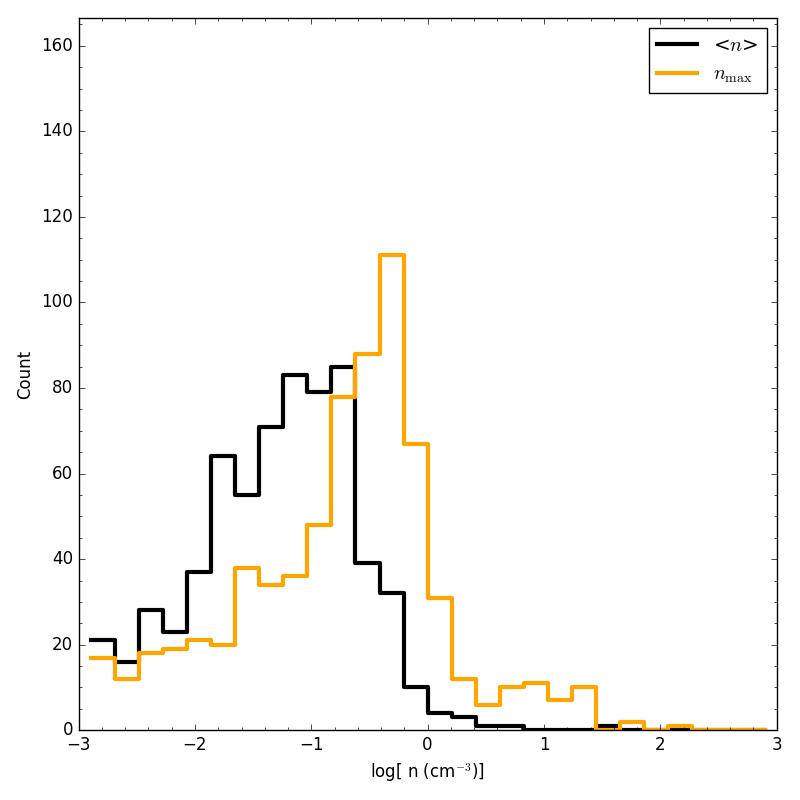
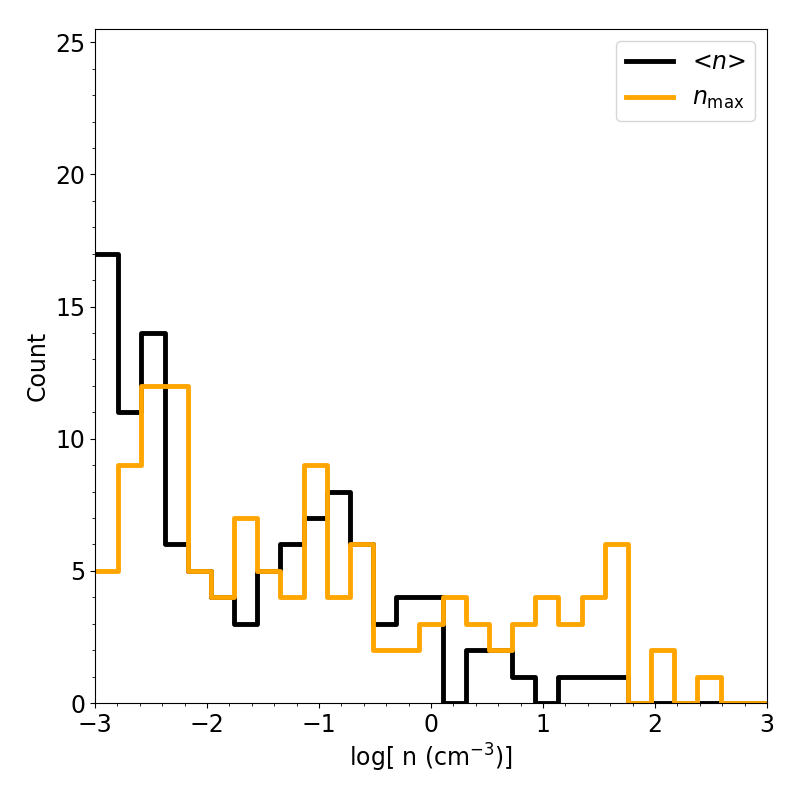
Update on Overleaf.

Changed region(s): [[0.0, 0.0, 1.0, 0.9688], [0.4688, 0.3125, 0.5312, 0.5625]]

diff --git a/main.tex b/main.tex
@@ -16,7 +16,7 @@
 
 \begin{document}
 
-\title{Simulating Dwarf Galaxy Evolution with Individual Star Feedback and Chemical Evolution I: Methods and Test Case}
+\title{REDO Simulating Dwarf Galaxy Evolution with Individual Star Feedback and Chemical Evolution I: Methods and Test Case}
 %Unstable Star Formation for the Lowest Mass Dwarf Galaxies
 \author{Andrew Emerick}
 \affiliation{Department of Astronomy, Columbia University, New York, NY, 10027, USA}
@@ -51,7 +51,7 @@ Increasing resolution, while more expensive, generally makes it easier to model 
 
 Our work builds upon our current understanding of galactic chemodynamics while making three notable advancements: 1) direct star-by-star modeling, 2) stellar wind feedback, and 3) using an adaptive ray tracing method to follow stellar ionizing radiation. Using star-by-star modeling, we are able to capture in more detail the stellar yields from individual stars released over their lifetime. In addition to better capturing how individual metal species enrich the ISM, this allows us to chemically tag individual stars. This opens an exciting new channel for testing models of galaxy evolution by enabling us to leverage current and ongoing observations probing the detailed chemical abundances of stars in the Milky Way and Local Group. \textbf{(citations to obs campaigns - GAIA, RAVE, APOGEE, etc.).}
 
-This paper is the first in a series of papers examining in detail the role that the individual components of multi-channel stellar feedback play in galaxy dynamical and chemical evolution. In this paper we introduce a new method of modeling for feedback physics and galactic chemical enrichment in the cosmological, hydrodynamics code \texttt{Enzo}. For the first time in galaxy-scale simulations, we model star formation down to particles representing individual stars, while simultaneously capturing stellar feedback through stellar winds, core collapse and Type 1a supernovae, photoelectric heating, and ionizing radiation through ray-tracing radiative transfer. In addition, we couple to a self-consistent set of stellar yields tables from the to track stellar yields from massive star stellar winds, AGB star winds, and supernovae. We describe each mode of our multi-channel feedback implementation in detail below, and briefly discuss their implementation in a set of isolated dwarf galaxy simulations.
+This paper is the first in a series of papers examining in detail the role that the individual components of multi-channel stellar feedback play in galaxy dynamical and chemical evolution. In this paper we introduce a new method of modeling for feedback physics and galactic chemical enrichment in the cosmological, hydrodynamics code \texttt{Enzo}. For the first time in galaxy-scale simulations, we model star formation down to particles representing individual stars, while simultaneously capturing stellar feedback through stellar winds, core collapse and Type 1a supernovae, photoelectric heating, and ionizing radiation through ray-tracing radiative transfer. In addition, we couple to a self-consistent set of stellar yields tables from the to track stellar yields from massive star stellar winds, AGB star winds, and supernovae. We describe each mode of our multi-channel feedback implementation in detail below, and briefly discuss their implementation in an isolated dwarf galaxy simulation.
 
 Readers who may want to only briefly skim (or skip) over the details of our included physics are advised to just read the beginning of Section~\ref{sec:methods}, which contains a complete -- yet brief -- summary of the included physics.
 
@@ -205,54 +205,49 @@ In addition to the LW radiation from the UV background, we account for localized
 
 \section{Galaxy Initial Conditions}
 \label{sec:IC}
-The dwarf galaxy presented in this work a comparison simulation to the ``compact'' dwarf galaxy simulated in \cite{Hu2017}. There are some minor qualitative differences due to differences in initialization scheme. The gaseous disk of our galaxy is initialized as an exponential disk as used in \cite{Tonnesen2009} and \cite{Salem2015}. This is given as
+The galaxy presented in this work is constructed to be similar to the observed properties of the Local Group dwarf galaxy Leo P \citep{Giovanelli2013,McQuinn2013,McQuinn2015a,McQuinn2015}, but is not intended to be a matched model to this galaxy. Leo P is gas rich ($M_{\rm gas} > M_{*}$) and low metallicity, with $M_{\rm HI} = 8.1\times 10^{5}$~M$_{\odot}$ and $M_{*} = 5.6^{+0.4}_{-1.9} \times 10^{5}$~M$_{\odot}$ \citep{McQuinn2015a} extending to a radius $r_{\rm HI} = 500$~pc, and with $12 + \rm{log(O/H)} = 7.17 \pm 0.04$ \citep{Skillman2013}, or $Z \sim 5.4\times10^{-4}$ adopting $Z_{\odot} = 0.018$ from \cite{Asplund2009}. Our dwarf galaxy is constructed without an initial background stellar population, with a total gas mass of $1.8 \times 10^{6}$~M$_{\odot}$ (or $M_{\rm HI} = 1.35 \times 10^{6}$~M$_{\odot}$) and $Z = 4.3\times 10^{-4}$, comparable to the average $z = 0$ metallicity from the stellar models computed in \citep{McQuinn2015}.
+
+The galaxy initially consists of a smooth, exponential gas disk in hydrostatic equillibrium with a static, background dark matter potential. The gas profile follows \cite{Tonnesen2009} and \cite{Salem2015}, or
 \begin{equation}
 \rho_{\rm gas} (R,z) = \frac{M_{\rm gas}}{2\pi a^2_{\rm gas}b_{\rm gas}} 0.5^2{\rm sech}\left(\frac{R}{a_{\rm gas}}\right){\rm sech}\left(\frac{z}{b_{\rm gas}}\right)
 \end{equation}
-where $a_{\rm gas}$ and $b_{\rm gas}$ are the radial and vertical gas disk scale heights, and $M_{\rm gas}$ is approximately 70\% of the total gas mass. We set $a_{\rm gas} = 1$~kpc, $b_{\rm gas} = 0.35$~kpc, and a total gas mass of $M_{\rm T,gas} = 4.0\times 10^7$~M$_{\odot}$. We include a static \citet{MiyamotoNagai1975} stellar background potential with total mass $M_{*} = 2\times 10^7 \rm{M_{\odot}}$ and the same scale height as the gas disk. This potential is given as
-\begin{equation}
-\Phi_* (R,z) = GM_{*}\left[R^2 + \left(a_* + \sqrt{z^2 + b_*^2}\right)^2\right]^{-1/2}.
-\end{equation}
-Our dwarf galaxy is embedded in a static, background, \citet{Burkert1995} dark matter potential with $M_{\rm vir} = 10^{10} \rm{M_{\odot}}$, $R_{\rm vir}~=~44$~kpc and r$_{\rm s} = 4.4$~kpc. This gives a maximum circular velocity $V_{\rm max} = 36.1$~km~s$^{-1}$ at $R_{\rm vmax}~=~1.43$~kpc. We note \cite{Hu2017} uses a NFW profile with the same concentration, giving $V_{\rm max} = 37.6$~km~s$^{-1}$ at $R_{\rm vmax}~=~9.5$~kpc. This is the most significant difference between our two initial conditions. The temperature of the gas disk is set by enforcing initial hydrostatic equilibrium with both the background stellar and dark matter potentials. The initial gas metallicity is set to 0.1 Z$_{\odot}$.
+where $a_{\rm gas}$ and $b_{\rm gas}$ are the radial and vertical gas disk scale heights, and $M_{\rm gas}$ is approximately 70\% of the total gas mass. We set $a_{\rm gas} = 250$~pc, $b_{\rm gas} = 100$~pc, and a total gas mass of $M_{\rm T,gas} = 2.0\times 10^6$~M$_{\odot}$. We adopt a Burkert \citet{Burkert1995} dark matter potential with $M_{\rm vir} = 3.5^{8} \rm{M_{\odot}}$, $R_{\rm vir}~=~14.3$~kpc and r$_{\rm s} = 370$~pc. This gives a maximum circular velocity $V_{\rm max} = 17.4$~km~s$^{-1}$ at $R_{\rm vmax}~=~1.2$~kpc. These parameters were adopted specifically to match the observed dynamical mass of Leo P interior to 500 pc, or $M_{\rm dyn} (r < 500~\rm{pc}) = 2.7\times 10^{7}$ M$_{\odot}$, and represent virial properties near the minimum halo mass expected for galaxies of this size \citep{Ferrero2012} (need more cite). We will explore the effect of adopting different dark matter potentials within the large range of possible profiles in a future work.
 
-Following the initialization procedure of \cite{Hu2017}, we use artificial supernova driving to disturb the initially smooth gas profile. This generates realistic ISM turbulence and density structures and prevents the otherwise uniform collapse of the gas to a thin disk that rapidly undergoes a large burst of star formation. The supernova driving occurs at random positions throughout the gas disk in regular intervals of 0.5 Myr until 10 Myr after the first star forms. This SNe rate corresponds to the equilibrium SFR of this galaxy in \cite{Hu2017}, or $1.2\times 10^{-3}$~M$_{\odot}$~yr$^{-1}$. To maintain effective supernova driving, these explosions are uncorrelated with the local gas density \citep{Gatto2017}. The yields from these artificial supernovae are set to not affect the chemical evolution of the galaxy, but to maintain constant local gas abundances.
-
-We simulate two realizations of the same dwarf galaxy in order to approximately test the effects of using radiative transfer to track stellar ionizing radiation as compared to a more approximate model. The first, our fiducial model, includes all physics as discussed above. The second uses all physics, but approximates the downside of approximate radiative feedback models by limiting ionizing radiation to local regions around the star particle, deleting photons that travel more than 50 pc. This is a very conservative mimicry of a Stromgren type approximation for photoionization feedback \citep[e.g.][]{Hopkins2012,Hu2017}, which is often used instead of full radiative transfer. Briefly, this generally photoionizes all gas within the Stromgren radius of a given star, expanding the region to account for overlapping HII regions by making estimates of the local density dependent recombination rate to determine if the region should be expanded. This, along with lack of angular information, can mass-bias the ionizing radiation, preferentially depositing most of the ionizing flux in local denser regions even though this ionizing radiation may be able to travel farther. Allowing photons to propagate normally within 50 pc effectively assumes this approximation is entirely consistent with radiative transfer within 50 pc, and asks the question as to whether or not longer distance photon propagation is important for galaxy evolution. We refer to these two galaxies as our ``fiducial'' and ``shortrad'' models for the remainder of this work.
-
-% move leo P stuff to another paper: Each of the dwarf galaxies presented in this paper are modeled after the current observed properties of the Local Group ultrafaint dwarf galaxy Leo P. Leo P is remarkable for its large gas to stellar ratio, Mgas = XXX Mstar = XXX, and presence of ongoing star formation -- SFR = XX. HI observations of Leo P constrain its dynamical mass interior to XX pc to be XX Msun. Each of our dwarf galaxies are embedded in a fixed, constant Burkert dark matter profile, of which we adopt a scale radius of 395 pc. This implies a total virial mass of XXX Msun and virial radius of XXX kpc, using the definition of Bryan et. al. 199x. 
-% The galaxy temperature is set such that the gas is in hydrostatic equilibrium with the background dark matter halo, ignoring the self-gravity of the gas. We adopt the initial gas phase metal fraction of  metal fraction of $Z = 4.3\times10^{-4}$, which is within the span of SFH modeled metallicities of Leo P presented in Fig. 8 of \cite{McQuinn2015a}; we note this is slightly lower than the observed current metallicity of Leo P, with $12 + \rm{log(O/H)} = 7.17 \pm 0.04$, or $Z \sim 5.4\times10^{-4}$ adopting $Z_{\odot} = 0.018$ from \cite{Asplund2009}. 
+Following the initialization procedure of \cite{Hu2017}, we use artificial supernova driving to generate realistic densities and turbulent properties in the galaxy ISM. This additionally prevents an otherwise uniform collapse of the gas disk. The supernovae explode at a fixed rate of $0.4$~Myr$^{-1}$, corresponding to the SFR obtained given the central HI surface density and the relation presented in \citep{Roychowdhury2009}. We stop the artificial driving 25~Myr after the first star particle forms. These artificial supernova do not drive chemical evolution of the galaxy, containing metal yields corresponding to the mean ISM abundances. 
 
 \section{Results}
 \label{sec:results}
 
-The shortrad galaxy agrees fairly well with the results found in both \citep{Hu2016} and \citep{Hu2017}, in terms of both morphological structure and star formation properties. This is in contrast to the results found in \citep{Forbes2016}, for reasons outlined in the discussion of \citet{Hu2017}. However, our full physics simulation, while similar to \citep{Hu2017}, shows significant differences. This is discussed in detail below.
+%\begin{figure*}
+%\includegraphics[width=0.23\linewidth]
 
 
-\begin{figure*}
-\includegraphics[width=0.23\linewidth]{panel/HI_sndriving.png}
-\includegraphics[width=0.23\linewidth]{panel/H2_sndriving.png}
-\includegraphics[width=0.23\linewidth]{panel/G_o_sndriving.png}
-\includegraphics[width=0.23\linewidth]{panel/temperature_sndriving.png}\\
-\vspace{0.1cm}
-\includegraphics[width=0.23\linewidth]{panel/HI_shortrad.png}
-\includegraphics[width=0.23\linewidth]{panel/H2_shortrad.png}
-\includegraphics[width=0.23\linewidth]{panel/G_o_shortrad.png}
-\includegraphics[width=0.23\linewidth]{panel/temperature_shortrad.png}
-\caption{Projections of our fiducial galaxy (top) and shortrad galaxy (bottom) at the end of the simulation time. The left two panels are integrated projections through the full disk, giving HI and H$_2$ column density. On the right, we show thin, face-on projections of G$_{o}$ and temperature in the central 50 pc of the disk. We note both the strange dark region in the top $G_o$ plot and the white boxes at the edges of the thin projections are artifacts of the visualization process, and are not present in the simulation.\textbf{yes plot fonts and label sizes need fixing - AE}}
-\label{fig:panel}
-\end{figure*}
+
+%\begin{figure*}
+%\includegraphics[width=0.23\linewidth]{panel/HI_sndriving.png}
+%\includegraphics[width=0.23\linewidth]{panel/H2_sndriving.png}
+%\includegraphics[width=0.23\linewidth]{panel/G_o_sndriving.png}
+%\includegraphics[width=0.23\linewidth]{panel/temperature_sndriving.png}\\
+%\vspace{0.1cm}
+%\includegraphics[width=0.23\linewidth]{panel/HI_shortrad.png}
+%\includegraphics[width=0.23\linewidth]{panel/H2_shortrad.png}
+%\includegraphics[width=0.23\linewidth]{panel/G_o_shortrad.png}
+%\includegraphics[width=0.23\linewidth]{panel/temperature_shortrad.png}
+%\caption{Projections of our fiducial galaxy (top) and shortrad galaxy (bottom) at the end of the simulation time. The left two panels are integrated projections through the full disk, giving HI and H$_2$ column density. On the right, we show thin, face-on projections of G$_{o}$ and temperature in the central 50 pc of the disk. We note both the strange dark region in the top $G_o$ plot and the white boxes at the edges of the thin projections are artifacts of the visualization process, and are not present in the simulation.\textbf{yes plot fonts and label sizes need fixing - AE}}
+%\label{fig:panel}
+%\end{figure*}
 
 \subsection{Morphological Structure}
 \label{sec:structure}
 We show edge-on (left) and face-on (right) projections of our fiducial galaxy (top) and shortrad (bottom) at the end of the simulation time in Figure~\ref{fig:panel}. The left two panels are number density weighted projections through the full disk, giving HI and H$_2$ column density. The right hand panels show face-on projections through thin (50 pc) slabs at the center of the galaxy for the interstellar radiation field normalized to the MW value in the solar neighborhood, or $G_o$, and gas temperature. In general, the shortrad simulation is visually consistent with that found in \citep{Hu2016,Hu2017}, exhibiting a thick, puffy disk with a relatively smooth HI column and an H$_2$ distribution that is more confined to the plane of the galaxy and is roughly uniformly distributed. Looking at the fiducial simulation, it is clear that the ray-tracing radiative transfer produces a significant change in the galactic structure. Both the HI and H$_2$ are significantly more disturbed, with notable gaps in the HI column caused by regions carved out by the ionizing radiation, and with significantly less uniform H$_2$ column, from molecular hydrogen destroyed through ionization heating. 
 
-\begin{figure}
-\includegraphics[width=0.9\linewidth]{panel/sndriving_particles}\\
-\vspace{0.1cm}
-\includegraphics[width=0.9\linewidth]{panel/shortrad_particles}
-\caption{Face on, density weighted projections of gas number density for both galaxies. Each of the black points represents a single particle (star) in the simulation, and can be a living star, a white dwarf, a massless tracer originating from a Type Ia explosion, or a SNII remnant. The population is dominated by low mass stars; only a fraction of these particles have active feedback (winds, radiation, supernovae) at any one moment. \textbf{yes plot fonts and label sizes need fixing - AE}}
-\label{fig:number density}
-\end{figure}
+%\begin{figure}
+%\includegraphics[width=0.9\linewidth]{panel/sndriving_particles}\\
+%\vspace{0.1cm}
+%\includegraphics[width=0.9\linewidth]{panel/shortrad_particles}
+%\caption{Face on, density weighted projections of gas number density for both galaxies. Each of the black points represents a single particle (star) in the simulation, and can be a living star, a white dwarf, a massless tracer originating from a Type Ia explosion, or a SNII remnant. The population is dominated by low mass stars; only a fraction of these particles have active feedback (winds, radiation, supernovae) at any one moment. \textbf{yes plot fonts and label sizes need fixing - AE}}
+%\label{fig:number density}
+%\end{figure}
 
 The differences are further emphasized in the temperature projections, where a visually more significant fraction of the gas in the fiducial simulations sits at temperatures near 10$^4$~K, and much less sits at very low ($\sim$ 10 K) temperatures. The differences between gas phase in these simulations is discussed in Section~\ref{sec:phase}. The ISRF of both galaxies is quite similar, though since the ISRF in our model is generated by massive stars alone, it reflects the SFR over the previous 10 - 40 Myr, which is in fact similar in both galaxies (see Section~\ref{sec:sfr}).
 
@@ -261,48 +256,71 @@ Finally, in Figure~\ref{fig:number density} we present face-on projections of ga
 \subsection{SFR and Mass Evolution}
 \label{sec:sfr}
 
-\begin{figure*}
-\includegraphics[width=0.32\linewidth]{sfr_comparison}
-\includegraphics[width=0.32\linewidth]{stars_mass_comparison}
-\includegraphics[width=0.32\linewidth]{HI_mass_comparison}
-\caption{The 10 Myr averaged SFR (left), stellar mass (middle), and disk HI mass (right) for each galaxy. \textbf{need to increase font sizes and y axis lim}}
-\label{fig:SFR}
-\end{figure*}
+%\begin{figure*}
+%\includegraphics[width=0.32\linewidth]{sfr_comparison}
+%\includegraphics[width=0.32\linewidth]{stars_mass_comparison}
+%\includegraphics[width=0.32\linewidth]{HI_mass_comparison}
+%\caption{The 10 Myr averaged SFR (left), stellar mass (middle), and disk HI mass (right) for each galaxy. \textbf{need to increase font sizes and y axis lim}}
+%\label{fig:SFR}
+%\end{figure*}
 
 In Figure ~\ref{fig:SFR} we compare the star formation rates of both simulations (left), along with the stellar mass evolution (middle), and HI mass evolution (right). The peak and average SFRs for each galaxy over the 270~Myr simulation time are comparable, with a peak at roughly $0.04$~M$_{\odot}$~yr$^{-1}$ and an average of about $1.1~\times~10^{-3}$~M$_{\odot}$~yr$^{-1}$ in each simulation. However, the SFR evolution is qualitatively different, with the fiducial run exhibiting a $\sim$80~Myr period of minimal, patchy star formation between 125~Myr and 200~Myr ($<\rm{SFR}>~=~2.2\times~10^{-5}~$M$_{\odot}$~yr$^{-1}$). Although there is a lull in star formation during this time in the shortrad case, star formation is continuous. This difference is due solely to the long-range effects of stellar ionizing radiation, though we cannot also rule out the possibility that it also makes SN feedback more effective. It is apparent in this simulation that stellar radiation feedback is effective at suppressing star formation galaxy wide, not just locally.
 
-\begin{figure}
-\includegraphics[width=0.9\linewidth]{HI_surface_density}
-\caption{\textbf{Coloring / style needs to change} Time averaged HI surface density profiles (dashed line) for both galaxies over the simulation time. The hatched regions show one standard deviation from the mean in each radial bin. Although there is noticeable variance in the HI profile in both galaxies, it is significantly greater for the full physics simulation. Truncating the ionizing photons to local regions alone results in a steadier and on average greater amount of HI at all but the very outer edge of the galaxy.}
-\label{fig:HI profile evolution}
-\end{figure}
+%\begin{figure}
+%\includegraphics[width=0.9\linewidth]{HI_surface_density}
+%\caption{\textbf{Coloring / style needs to change} Time averaged HI surface density profiles (dashed line) for both galaxies over the simulation time. The hatched regions show one standard deviation from the mean in each radial bin. Although there is noticeable variance in the HI profile in both galaxies, it is significantly greater for the full physics simulation. Truncating the ionizing photons to local regions alone results in a steadier and on average greater amount of HI at all but the very outer edge of the galaxy.}
+%\label{fig:HI profile evolution}
+%\end{figure}
 
 The long-range effects of the ionization are clear in the HI evolution of these galaxies (middle). The presence of stellar ionizing radiation throughout the galaxy decreases the amount of HI gas present in the disk by a factor of $\sim$4, by the end of the simulation time. Figure~\ref{fig:HI profile evolution} shows the average HI surface density profile of each galaxy over the course of the simulation time, with the filled regions indicating one standard deviation from the mean. These differences in evolution lead to differences in metal production and distribution in these two galaxies, discussed further in \ref{sec:chemical evolution}.
 
+\subsection{Outflow Properties}
+\label{sec:outflows}
+
+Show mass loading factors as a function of time here at all radii.
+
+\begin{figure}
+\centering
+\includegraphics[width=0.95\linewidth]{outflow_velocity_distribution}
+\caption{The time averaged radial velocity distribution of outflowing material external to the disk and within the virial radius of our dwarf galaxy. The outflowing material is multiphase, broken into WNM, WIM, and HIM. See XXX for definitions of these regimes. We note that WNM is often labeled simply as ``cold'', or gas below $T = 10^{4}$K. There is little to no outflowing mass in the CNM or molecular phases.}
+\label{fig:outflow_velocity}
+\end{figure}
+
+Detailed outflow properties, beyond outflow rates and mass loading factors, are important discriminators between the model dependent feedback physics included in galaxy simulations. (this has been shown previously with XX XX XX producing very different outflow properties depending on what physics is included). In Figure~\ref{fig:outflow_velocity} we present radial velocity distributions of all material outside our dwarf galaxy's disk, and within the halo, broken into three gas phases. Half of the outflow, by mass, is at velocities below 40 km s$^{-1}$, with 75\% at velocities of 70 km s$^{1} or below. This gas is dominated by the two warm gas phases, with the WNM dominating at lower velocities, and the WIM at higher velocities. The distribution has a very long tail out to and beyond 500 km s$^{-1}$. These dominant launching mechanism in this simulation are supernovae (Emerick et. al. in prep), generating a rapidly moving and volume filling HIM. However, as shown the HIM comprises very little of the outflow by mass. Most of the outflowing gas comes from the warm phase, pushed out by the high pressure, fast moving HIM. Some of this warm gas certainly originates from adiabatically and radiatively cooled HIM, however. The amount of transfer between phases in the halo of our galaxy will be investigated in future work.
+
+Final paragraph on metallicity of outflowing material.
 
 \subsection{Phase Diagrams}
 \label{sec:phase}
 
-Figure~\ref{fig:phase} gives a comparison of the phase diagrams for each simulation, averaged over the final 150 Myr of simulation time. There are a few distinct regions in the left diagram that one can easily distinguish. There is an overdensity at low temperatures and densities ($\sim$~100~K and between $n = 0.1$~cm$^{-3}$ and $n = 1.0$~cm$^{-3}$) which extends somewhat to higher densities. This regime marks the approximate density regime where gas self-shielding against the UVB becomes significant (see Fig. 3 of \citet{Rahmati2013}). The large extensions to low densities and high temperatures mark gas heated during initial SNe injection and subsequent shock heated gas. Finally, there are two overdensities at temperatures around 10$^{4}$ K. The larger, and lower, of the two is hot phase of the the equillibrium cooling curve, and is obvious in the right hand diagram as well. However, the higher of the two is less pronounced in the right hand diagram. This is photoionized gas that has been photoheated to around $T = 2\times 10^4$~K.
+Our simulations contain both ample resolution and microphysics to capture a multi-phase medium within the ISM and halo of our simulated galaxy. We define five different gas phases following those defined in (Cite Draine ISM): molecular, cold neutral medium (CNM), warm neutral medium (WNM), warm ionized medium (WIM), and hot ionized medium (HIM). See Appendix (ref) for a quantitative definition of these phases. Each of these exist in our simulations, and are regulated by the complex interplay between turbulence, self-gravity, and stellar feedback throughout the galaxy's evolution. Here we discuss the phase properties of the gas throughout the simulation box and within the ISM of our dwarf galaxy.
 
-Comparing these two diagrams it is apparent that the stellar ionizing radiation significantly impacts the detailed properties of the galaxy's ISM in regions well outside our artificial truncation radius of 50 pc. This radiation is able to prevent the cooling of dense gas to the very low temperatures seen in the right hand diagram and maintains a significant amount of photoheated gas at temperatures around 10$^4$~K.  
+Figure~\ref{fig:phase} shows the temperature-density phase diagram of all gas in the simulation domain, averaged over the final 50 Myr of simulation time. One can readily identify the two most massive regions of gas in the simulation, a low density, warm phase produced through ionization and supernovae heating, and a cold, high density phase which makes up most of the mass in the galaxy's disk (see Figure~\ref{fig:ISM_evolution}). [discuss what is / is not in disk from this diagram]
 
 \begin{figure*}
-\includegraphics[width=0.45\linewidth]{sndriving_phase.png}
-\includegraphics[width=0.45\linewidth]{shortrad_phase.png}
-\caption{The temperature-number density phase diagrams for both simulations, averaged over the last 150 Myr of simulation time.}
+\includegraphics[width=0.45\linewidth]{phase_diagram.png}
+\caption{The full-box temperature vs. number density phase diagram of our dwarf galaxy simulation, averaged over the final 50 Myr of simulation time.}
 \label{fig:phase}
+\end{figure*}
+
+The mass of the ISM in our dwarf galaxy is dominated by the CNM over the entire simulation time, as shown in the left panel of Figure~\ref{fig:ISM_evolution}. Together, the CNM and WNM comprise roughly 90\% of the galaxy's gas mass. The hotter WIM and HIM contain little mass, but by far dominate the ISM volume, as shown in the right panel. (more here)
+
+\begin{figure*}
+\includegraphics[width=0.45\linewidth]{mass_fraction_evolution.png}
+\includegraphics[width=0.45\linewidth]{volume_fraction_evolution.png}
+\caption{The evolution of the mass and volume fractions for each phase of our galaxy's ISM. This figures only consider gas present within the disk of the galaxy.}
+\label{fig:ISM_evolution}
 \end{figure*}
 
 \subsection{Chemical Evolution} %and Metal Enriched Outflows}
 \label{sec:chemical evolution}
 Although our simulations are long enough to begin to discuss morphological and dynamical differences between the galaxies, they are too short to focus in detail in chemodynamical evolution. For this reason, we make only a brief comparison between these two galaxies, saving a more detailed examination for our simulations of lower mass dwarf galaxies run for $\sim$Gyr timescales (Emerick et. al. in prep).
 
-\begin{figure}
-\includegraphics[width=0.9\linewidth]{element_mass_comparison_fraction}
-\caption{Ratio of amount of mass in a given mutually exclusive phase (disk, halo, and stars) between the fiducial and shortrad simulations. The halo ratio has been multiplied by 0.5 for clarity. We caution against making any interpretation of Mn and ratios for the s and r-process elements (Y, Ba, and Eu) as there is very little mass of these elements produced in the $\sim$100 Myr timescales examined here. \textbf{comment: I thought of a few different ways of conveying this information, but all were painful to look at or make (e.x. double bar graph showing fractional element dist)... this was the least painful, but open to suggestions}.}
-\label{fig:element mass ratio}
-\end{figure}
+%\begin{figure}
+%\includegraphics[width=0.9\linewidth]{element_mass_comparison_fraction}
+%\caption{Ratio of amount of mass in a given mutually exclusive phase (disk, halo, and stars) between the fiducial and shortrad simulations. The halo ratio has been multiplied by 0.5 for clarity. We caution against making any interpretation of Mn and ratios for the s and r-process elements (Y, Ba, and Eu) as there is very little mass of these elements produced in the $\sim$100 Myr timescales examined here. \textbf{comment: I thought of a few different ways of conveying this information, but all were painful to look at or make (e.x. double bar graph showing fractional element dist)... this was the least painful, but open to suggestions}.}
+%\label{fig:element mass ratio}
+%\end{figure}
 
 In Figure~\ref{fig:element mass ratio} we divide the total mass of each element contained in each of three regimes (stars, disk, or halo) of the fiducial simulation by the mass in the shortrad simulation (i.e. $>$ 1 means more mass in the given in the given phase in the fiducial simulation). We multiply the halo ratio, defined as all elements outside the disk but within the virial radius, by 0.5 for clarity. Although the total metal production in each galaxy is similar, the partitioning of those metals differs significantly.
 
@@ -405,7 +423,7 @@ where $E_{51}$ is the injection energy in units of 10$^{51}$~erg, $n_{o}$ is the
 \centering
 \includegraphics[width=0.4\linewidth]{sn_density_hist}
 \includegraphics[width=0.4\linewidth]{sn_radius_hist}
-\caption{Distribution of peak and average gas densities (left) in the injection region of each of the supernovae from simulation XXX. On the right, we show the radius of the pressure driven snowplow phase of the supernova, computed using the average and peak densities, for each supernova. The vertical lines give one and three cell widths. As shown, a fraction of these SN are certainly under resolved, with R$_{\rm PDS}$ less than the size of the initial injection region, but a majority are resolved. \textbf{font sizes and labels need improving - AE}}
+\caption{Distribution of peak and average gas densities (left) in the injection region of each of the supernovae from the simulation. On the right, we give the distribution of the radius of the pressure driven snowplow phase for each supernova assuming a uniform medium at either the peak or average density in the injection region. The vertical lines give one and 4.5 cell widths. As shown, a fraction of these SN are certainly under resolved, with R$_{\rm PDS}$ less than a single cell size, but a majority are resolved.}
 \label{fig:supernova histogram}
 \end{figure}
 
